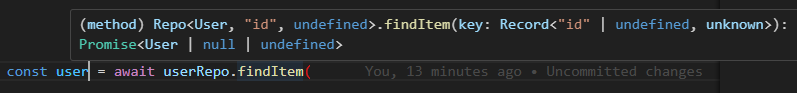
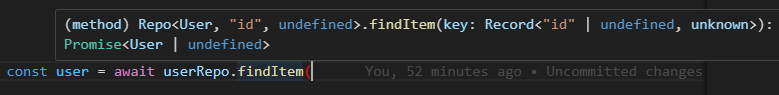
Return undefined instead of null

diff --git a/src/repo/repo.ts b/src/repo/repo.ts
@@ -155,7 +155,7 @@ export class Repo<
   }
 
   async findItem(key: Record<P | S, T[P] | T[S]>) {
-    if (!key) return null;
+    if (!key) return undefined;
 
     const params: GetCommandInput = {
       TableName: this.tableName,
